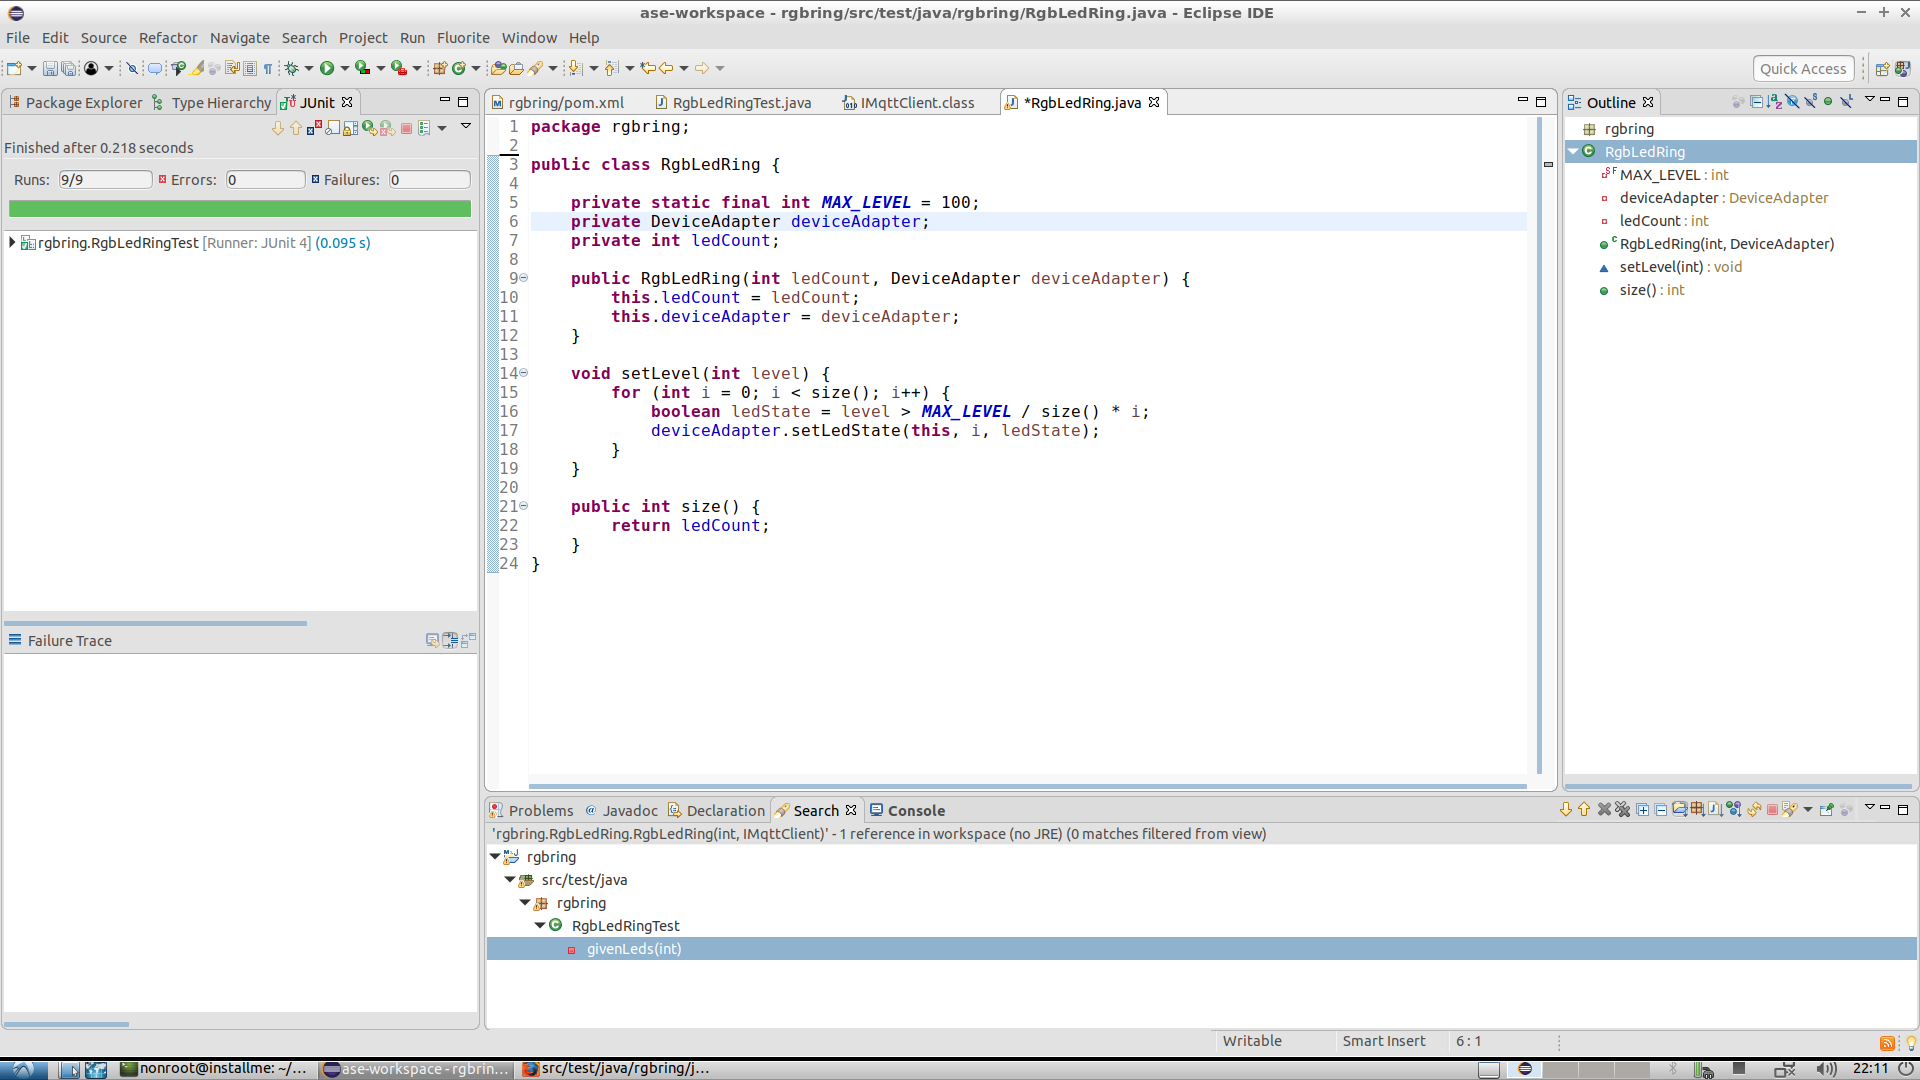
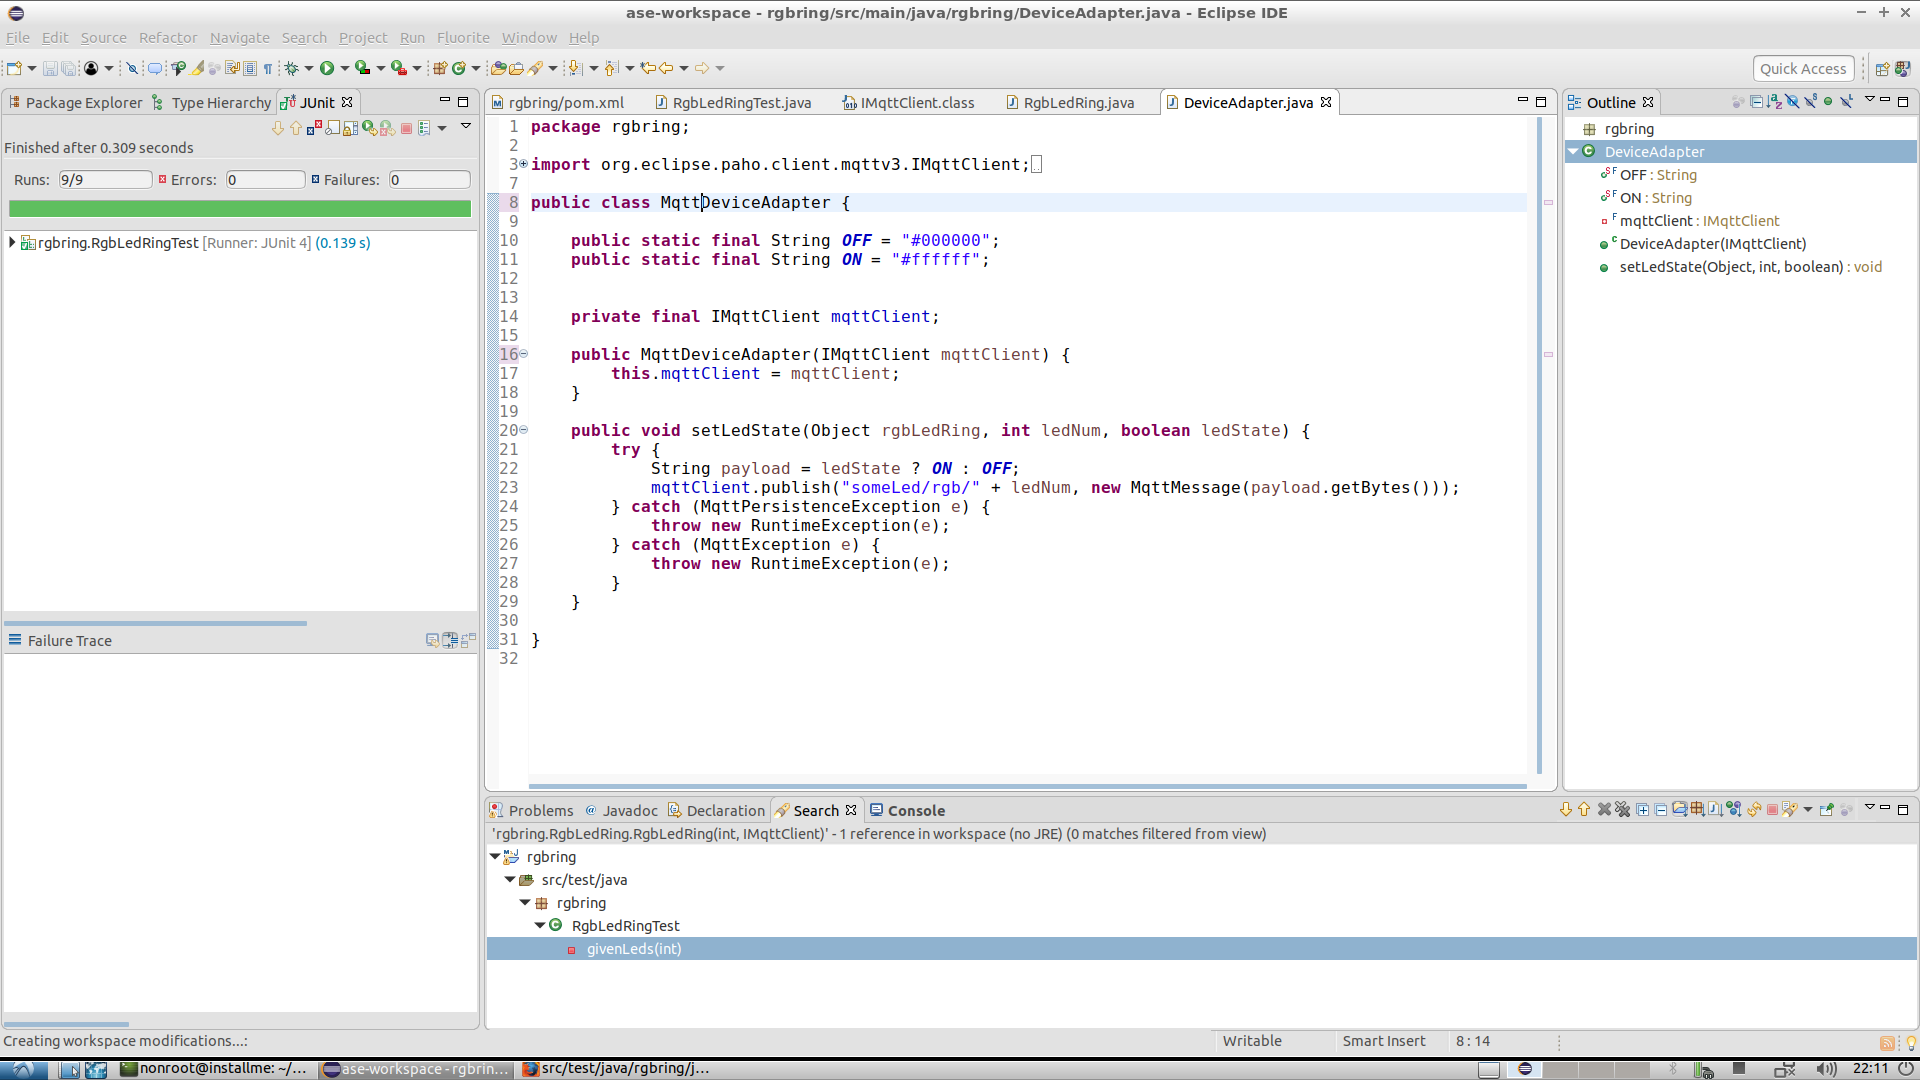
autocommit on change

diff --git a/src/main/java/rgbring/MqttDeviceAdapter.java b/src/main/java/rgbring/MqttDeviceAdapter.java
@@ -5,7 +5,7 @@ import org.eclipse.paho.client.mqttv3.MqttException;
 import org.eclipse.paho.client.mqttv3.MqttMessage;
 import org.eclipse.paho.client.mqttv3.MqttPersistenceException;
 
-public class DeviceAdapter {
+public class MqttDeviceAdapter {
 
 	public static final String OFF = "#000000";
 	public static final String ON = "#ffffff";
@@ -13,7 +13,7 @@ public class DeviceAdapter {
 	
 	private final IMqttClient mqttClient;
 
-	public DeviceAdapter(IMqttClient mqttClient) {
+	public MqttDeviceAdapter(IMqttClient mqttClient) {
 		this.mqttClient = mqttClient;
 	}
 

diff --git a/src/test/java/rgbring/RgbLedRing.java b/src/test/java/rgbring/RgbLedRing.java
@@ -3,10 +3,10 @@ package rgbring;
 public class RgbLedRing {
 
 	private static final int MAX_LEVEL = 100;
-	private DeviceAdapter deviceAdapter;
+	private MqttDeviceAdapter deviceAdapter;
 	private int ledCount;
 
-	public RgbLedRing(int ledCount, DeviceAdapter deviceAdapter) {
+	public RgbLedRing(int ledCount, MqttDeviceAdapter deviceAdapter) {
 		this.ledCount = ledCount;
 		this.deviceAdapter = deviceAdapter;
 	}

diff --git a/src/test/java/rgbring/RgbLedRingTest.java b/src/test/java/rgbring/RgbLedRingTest.java
@@ -315,7 +315,7 @@ public class RgbLedRingTest {
 
 	private void givenLeds(int ledCount) {
 		client = new IMqttClientForTest();
-		this.ring = new RgbLedRing(ledCount, new DeviceAdapter(client));
+		this.ring = new RgbLedRing(ledCount, new MqttDeviceAdapter(client));
 	}
 
 }
